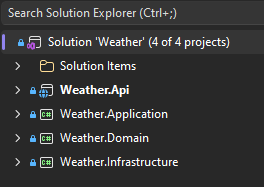
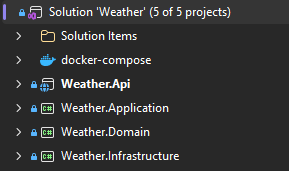
readme updates

diff --git a/readme.md b/readme.md
@@ -39,15 +39,11 @@ To prepare the project for development, you need to have .NET 8.0 SDK installed 
 
 ## Setup
 1. Register for a free API key at [Weather API](https://www.weatherapi.com/) to access weather data.
-2. In _appsettings.json_ file of the Weather.API project, replace the placeholder YOUR_API_KEY in _AppSettings->WeatherApiServer->ApiKey_ with your actual API key.
+2. In _appsettings.json_ file of the Weather.API project, replace the placeholder YOUR_API_KEY in _AppSettings->WeatherApiServer->ApiKey_ with your actual Weather API key.
 3. In _appsettings.json_ file of the Weather.API project, replace the placeholder JWT_KEY in _AppSettings->Jwt->Key_ with a secure key of your choice for JWT authentication.
 4. Set _AppSettings->Cache->Mode_ to "None", "Memory", or "Database" based on your preference.
 ## Run Locally
-1. Run _Weather.API_ project (with http, https or Container settings) to start the API server.
-2. Register new user by sending a POST request to _/api/auth/register_ endpoint with the required user details in the request body. Use role _User_ or _Administrator_.
-3. Authenticate by sending a POST request to _/api/auth/login_ endpoint with the user credentials in the request body.
-4. Use response from the login endpoint to obtain a JWT token, which will be used for authenticated requests to the API.
-5. Get weather information for a city by sending a GET request to _/api/temperature/cityId_ endpoint, replacing cityId with the number of the desired city. Include the JWT token in the Authorization header of the request.
+Run _Weather.API_ project (with http, https or Container settings) to start the API server.
 ## Run with Docker
 1. Go to the root directory of the project in the terminal.
 2. Compose project into a Docker container by running the following command in the terminal from the root directory of the project:
@@ -55,4 +51,9 @@ To prepare the project for development, you need to have .NET 8.0 SDK installed 
 docker compose up --build
 ```
 3. Goto [https://localhost:56566/swagger](https://localhost:56566/swagger) in your web browser to access the Swagger UI for the API.
-4. Follow steps 2-5 from the "Run Locally" section to interact with the API using the Docker container.
+4. Follow steps 2-5 from the **_Interact with the API using Swagger UI_** section to interact with the API using the Docker container.
+## Interact with the API
+1. Register new user by _api/Auth/register_. Use role *User* or _Administrator_.
+2. Authenticate by sending a POST request to _/api/auth/login_ endpoint with the user credentials in the request body.
+3. Use response from the login endpoint to obtain a JWT token, which will be used for authenticated requests to the API.
+4. Get weather information for a city by sending a GET request to _/api/temperature/cityId_ endpoint, replacing cityId with the number of the desired city. Include the JWT token in the Authorization header of the request.
